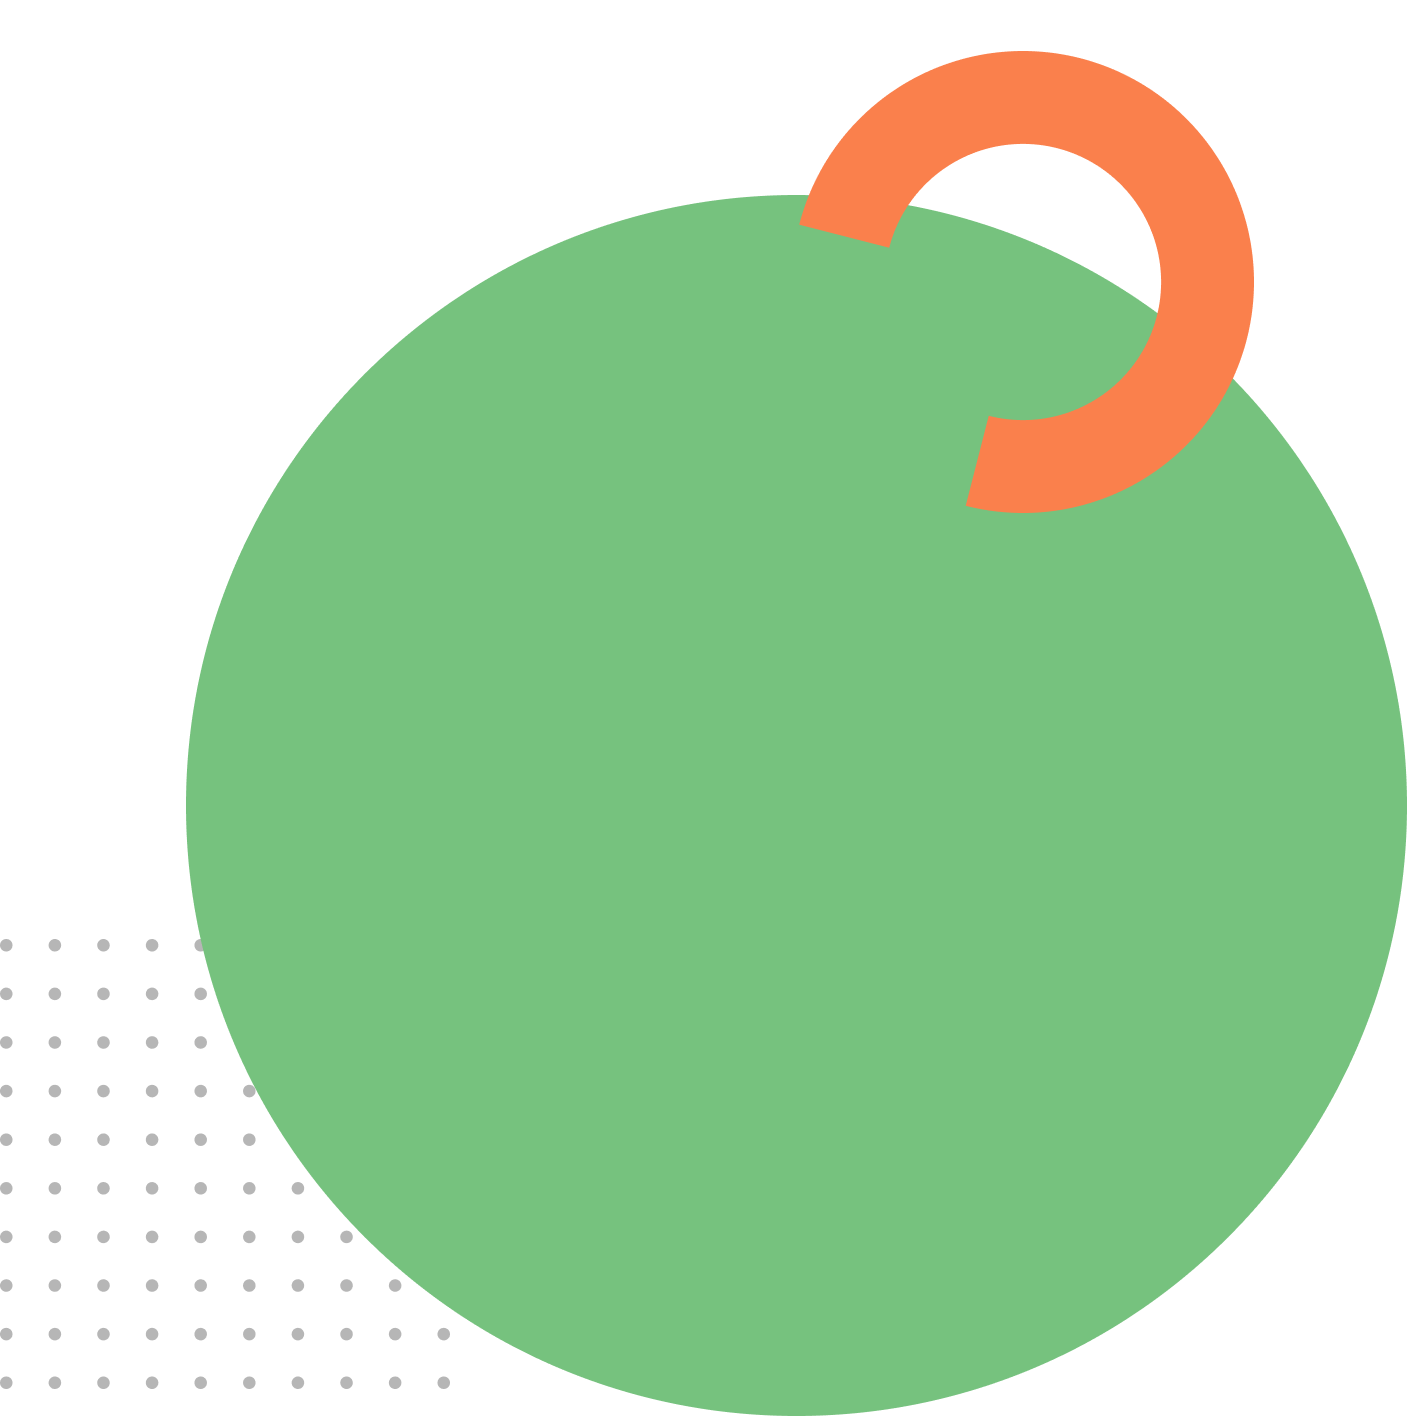
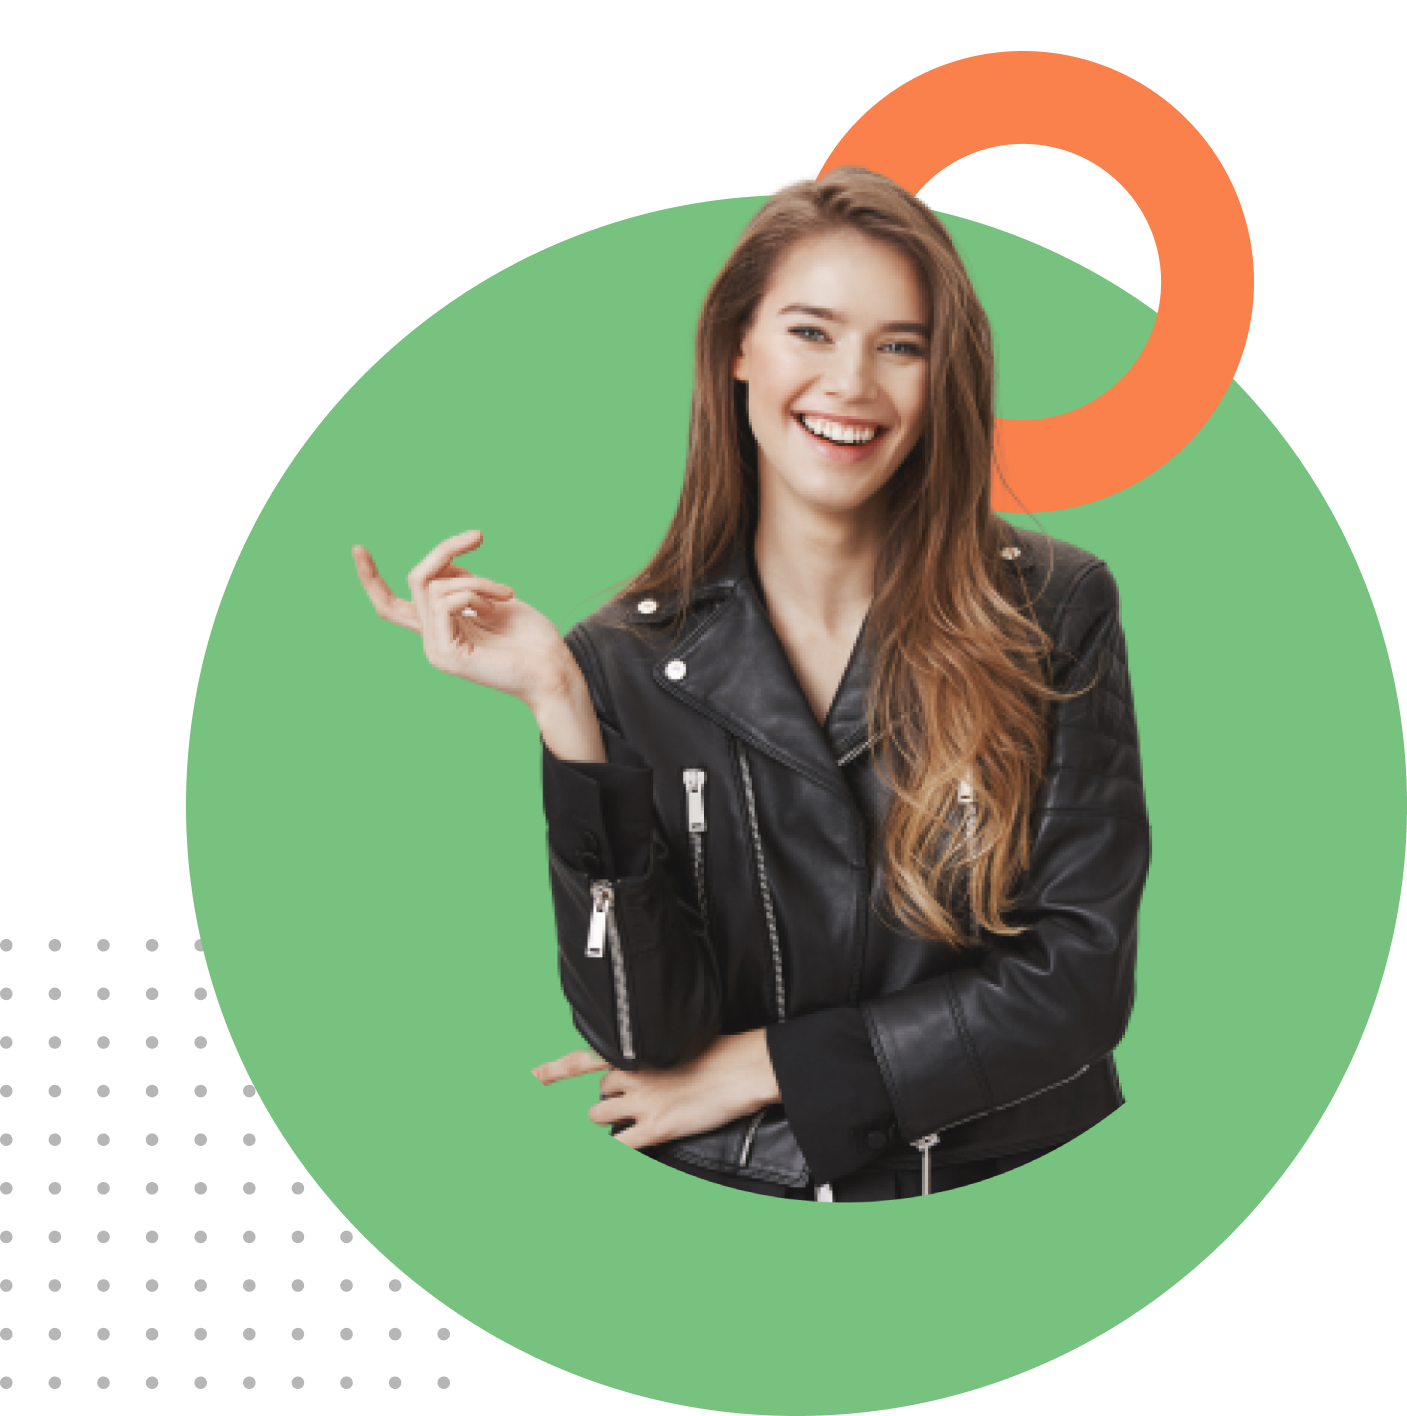
add

Changed region(s): [[0.2445, 0.0932, 0.8252, 0.8701]]

diff --git a/index.html b/index.html
@@ -42,6 +42,18 @@
 
   </header>
 
+  <main class="container mt-5">
+  <div class="col-md-6">
+  <h1 class="colours-p">BE THE PENGUINS<br>OF WINTER</h1>
+  <h5>This is the super shop for penguin facilities.Lorem Ispsum</h5>
+
+  </div>
+  <div class="col-md-6">
+    <img class="img-women" src="icon/green.png" alt="">
+  </div>
+
+  </main>
+
    
 
 

diff --git a/penguin.css b/penguin.css
@@ -6,3 +6,6 @@
     margin: 5px;
    
 }
+.img-women{
+    width: 50%;
+}
